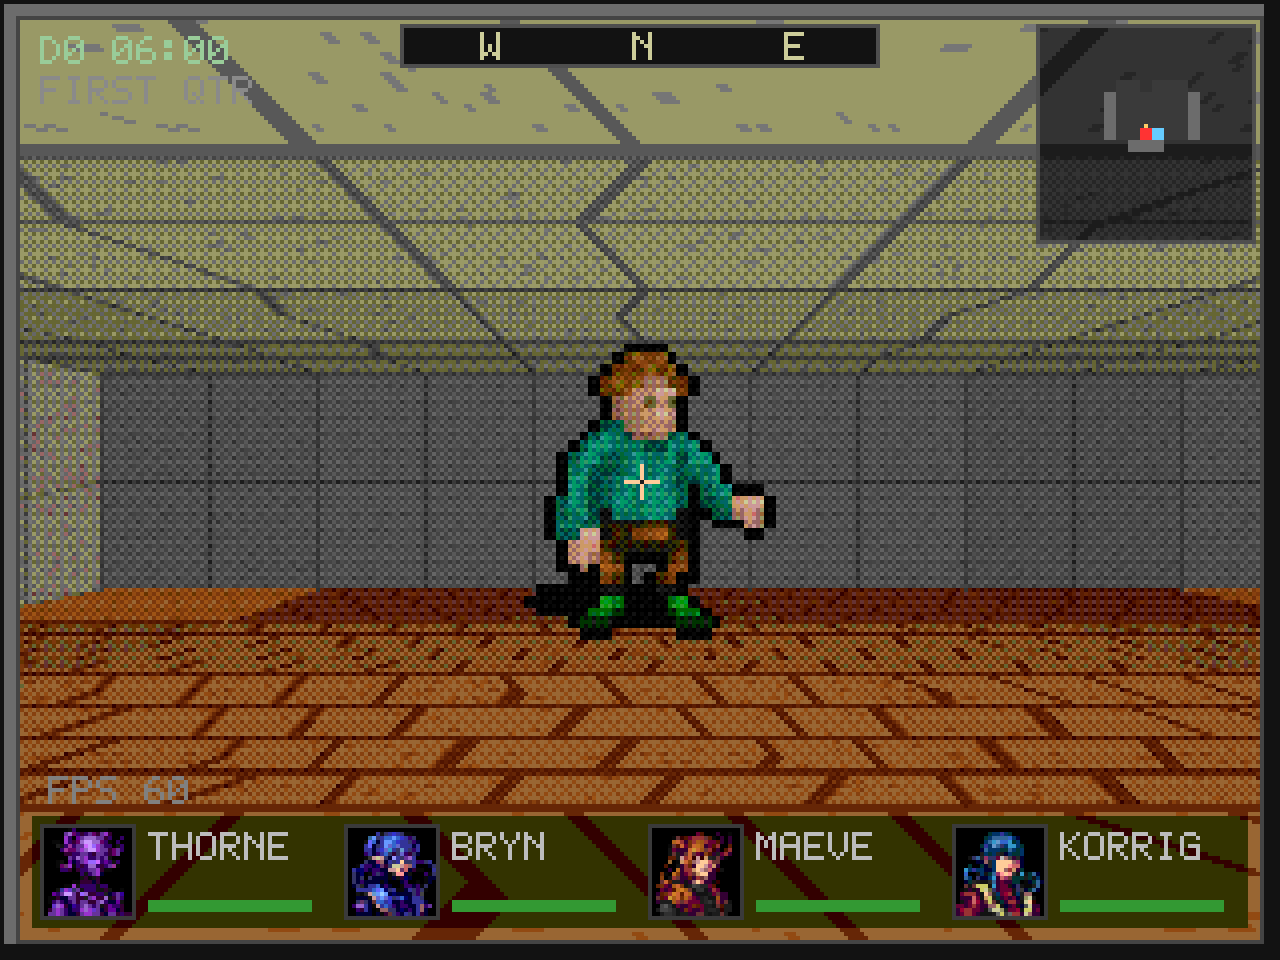
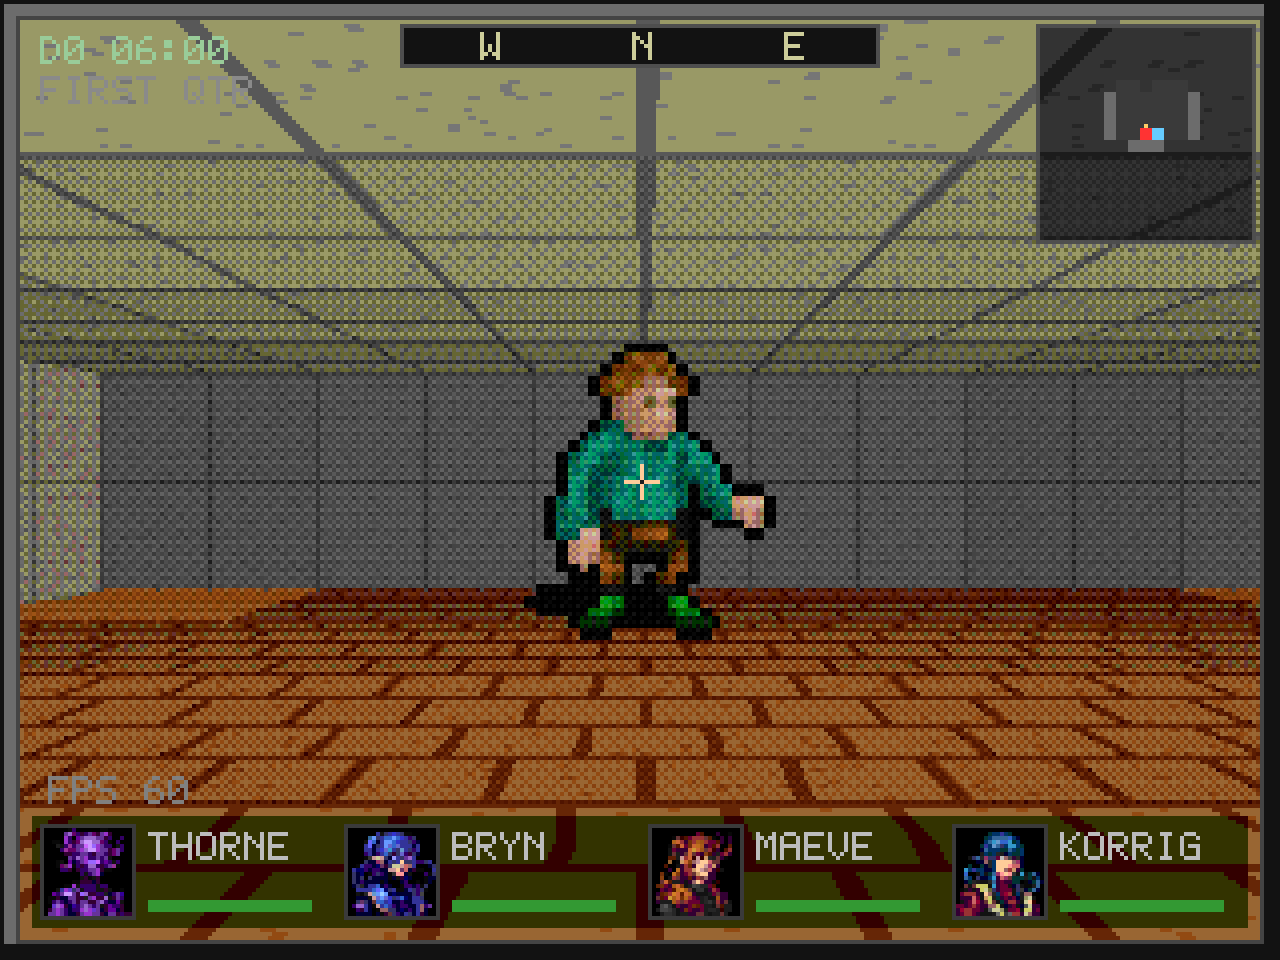
Log the quad subdivision, regenerate its shots
Add the grid-quad subdivision to the changelog under Changed, and
regenerate the README screenshots it changed. The town, seaside, forest
and shop shots now render their walls and interior floor and ceiling
without the affine-warp kink; the kit-clad shots are pixel-identical and
are left as they were.

diff --git a/CHANGELOG.md b/CHANGELOG.md
@@ -143,6 +143,15 @@ whose development history is summarized in docs/roadmap.md.
   now say the polygon path is the default view, which it has been since the
   terrain work, in place of the old "experimental" and "raycaster is the
   default" wording.
+- Subdivided the grid's floor, ceiling and wall faces to tame affine texture
+  warp. The rasterizer maps textures affinely, so a cell drawn as one large
+  quad kinked a straight brick course at the quad's diagonal when seen at a
+  grazing angle. Each face now draws as a small grid of sub-quads
+  (`DrawTexQuadSub`), so straight lines stay straight, the way the PlayStation
+  tessellated surfaces for the same reason. The subdivision is a per-target knob
+  (`GRID_SUBDIV`) beside `raster.VSNAP` and `terrain.TERRAIN_SUBDIV`: dense on
+  the desktop, coarse under `GRID_COARSE` for the FPU-less targets. Kit meshes
+  and the outdoor terrain carry their own tessellation and are unchanged.
 
 ### Removed
 - Retired the raycaster. The PSX-style polygon renderer has been the default
